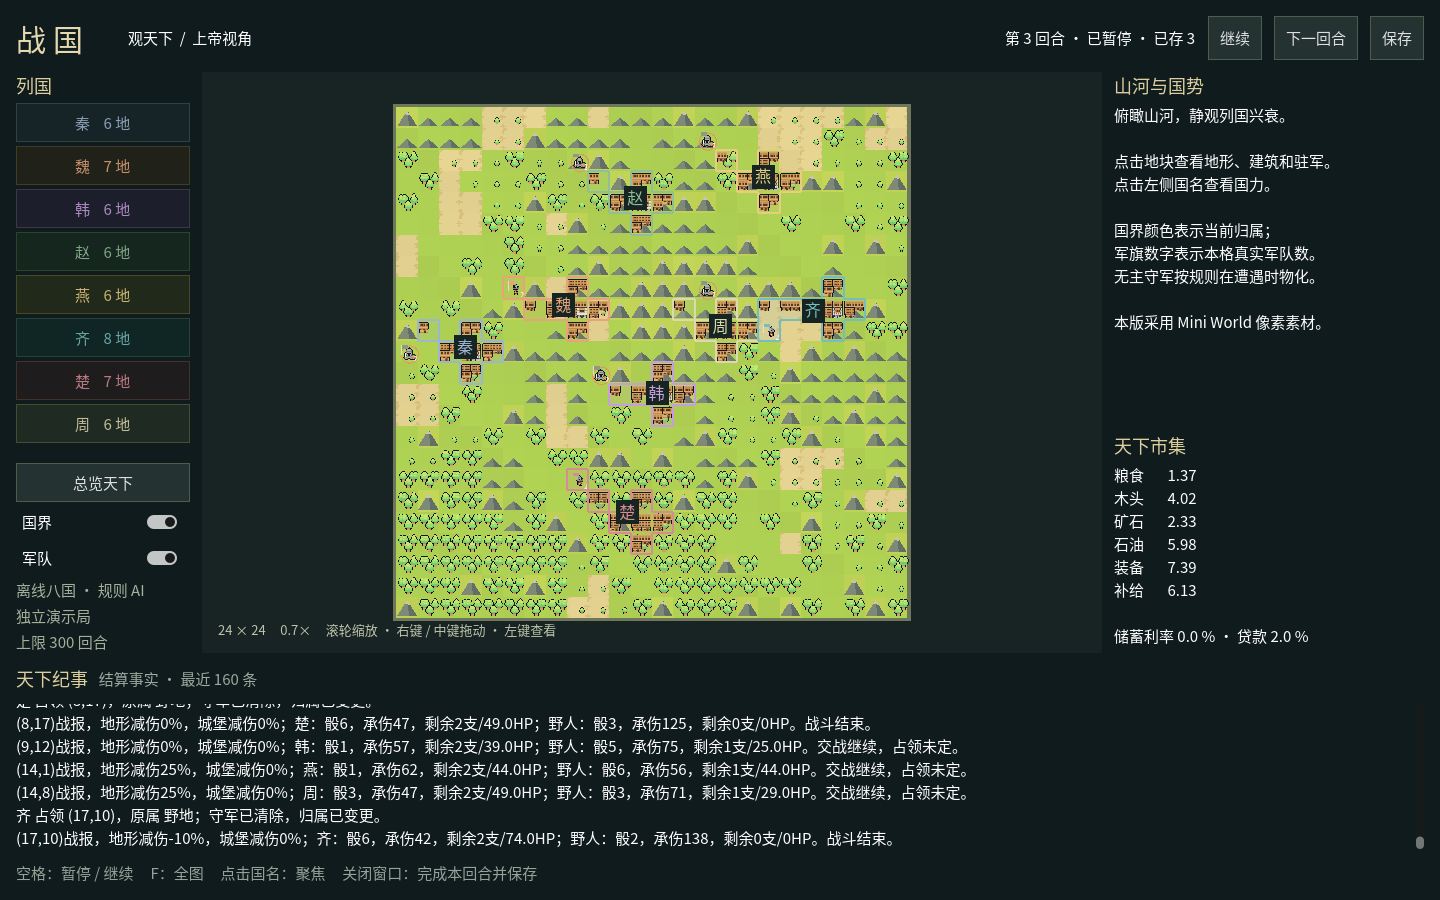
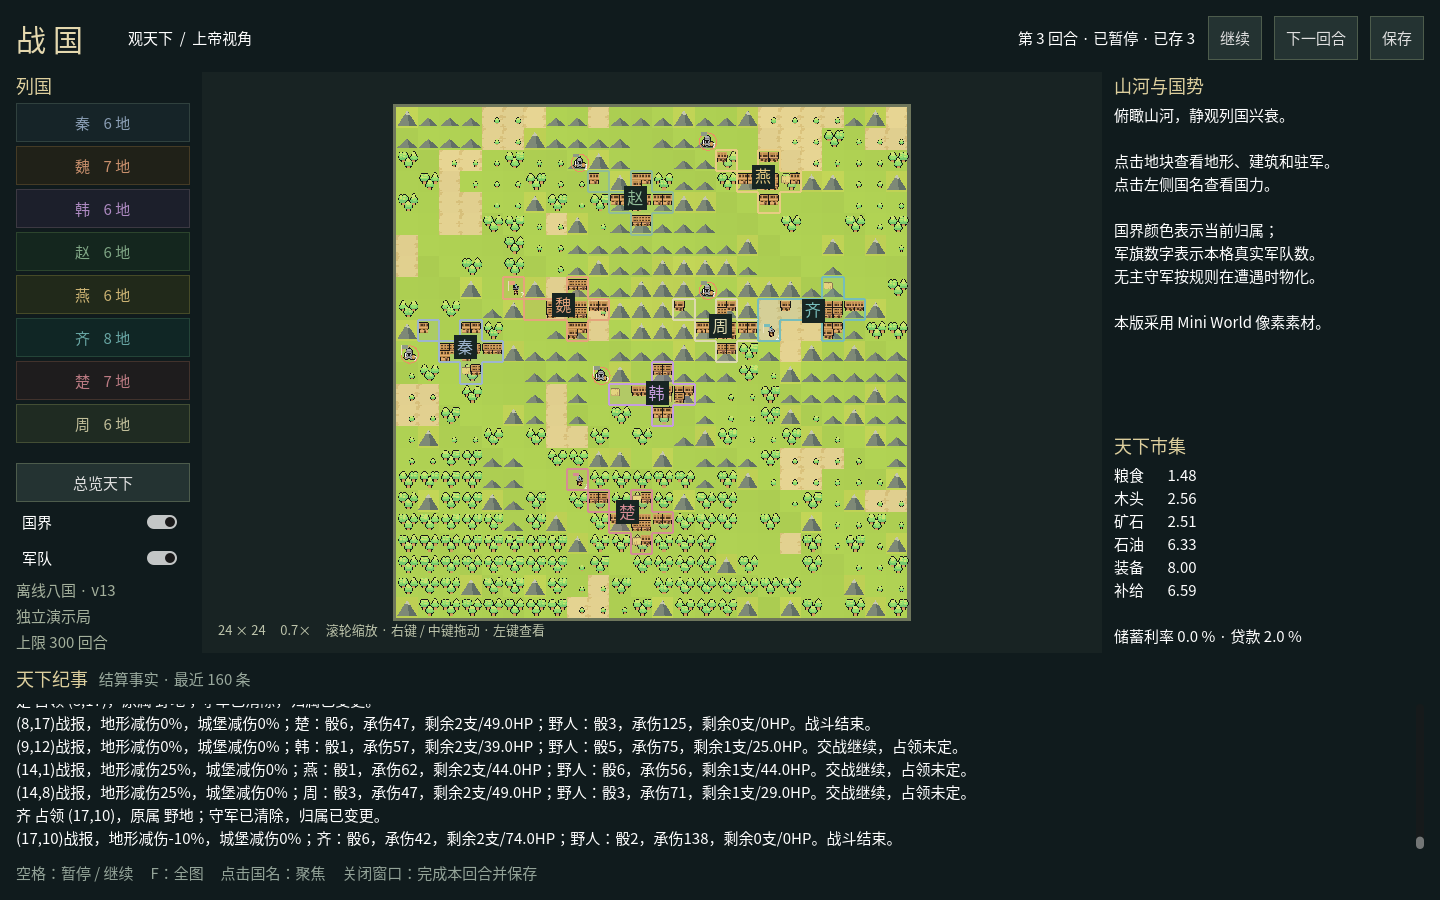
桌面演示固定使用v13规则AI并更新实机预览

diff --git a/mods/ui/desktop/Scripts/Desktop.cs b/mods/ui/desktop/Scripts/Desktop.cs
@@ -71,7 +71,7 @@ public partial class Desktop : Control
         var all = Button(left,"总览天下",()=>{_selectedNation="";_map.Fit();ShowTile(null);});all.TooltipText="F：回到全图";
         var borders = new CheckButton {Text="国界",ButtonPressed=true};left.AddChild(borders);borders.Toggled += v=>{_map.Borders=v;_map.QueueRedraw();};
         var units = new CheckButton {Text="军队",ButtonPressed=true};left.AddChild(units);units.Toggled += v=>{_map.Units=v;_map.QueueRedraw();};
-        left.AddChild(new Label {Text="离线八国 · 规则 AI\n独立演示局\n上限 300 回合",Modulate=new Color("a4b09c")});
+        left.AddChild(new Label {Text="离线八国 · v13\n独立演示局\n上限 300 回合",Modulate=new Color("a4b09c")});
         _map = new WorldMap {SizeFlagsHorizontal=SizeFlags.ExpandFill,SizeFlagsVertical=SizeFlags.ExpandFill};body.AddChild(_map);_map.SelectionChanged=ShowTile;
         var right = new VBoxContainer {CustomMinimumSize=new(310,0)};body.AddChild(right);
         right.AddChild(Heading("山河与国势"));

diff --git a/tests/test_desktop.py b/tests/test_desktop.py
@@ -12,13 +12,14 @@ from ui.desktop import Controller
 
 class TestDesktop(unittest.TestCase):
     def host(self):
-        cfg = build_config({'nations': [{'client': 'rule'}]}, 20261023)
+        cfg = build_config({'rule_ai': 'v13', 'nations': [{'client': 'rule', 'rule_ai': 'v13'}]}, 20261023)
         host = build(seed=20261023, config=cfg)
         for actor in host.actors():host.subsidize(actor, {}, cavalry=2)
         return host
 
     def test_detached_exact_projection(self):
         h = self.host(); snapshot = h.observer_snapshot(); before = h.to_save()
+        self.assertTrue(all(client.version == 'v13' for client in h.clients.values()))
         frame = h.ui.desktop_frame(snapshot)
         self.assertEqual(len(frame['tiles']), 576)
         self.assertEqual(len(frame['nations']), 8)

diff --git a/ui/desktop.py b/ui/desktop.py
@@ -115,7 +115,7 @@ def main(argv=None):
         if os.environ.get('ZHANGUO_UI_MODS'):cfg['ui_mods'] = os.environ['ZHANGUO_UI_MODS']
         with redirect_stdout(sys.stderr):host = GameHost.load(resume, cfg)
     else:
-        cfg = build_config({'nations': [{'client': 'rule'}]}, args.seed)
+        cfg = build_config({'rule_ai': 'v13', 'nations': [{'client': 'rule', 'rule_ai': 'v13'}]}, args.seed)
         if os.environ.get('ZHANGUO_UI_MODS'):cfg['ui_mods'] = os.environ['ZHANGUO_UI_MODS']
         with redirect_stdout(sys.stderr):host = build(seed=args.seed, config=cfg)
         # The ordinary scenario starts without troops. Give this isolated visual

diff --git a/mods/ui/desktop/README.md b/mods/ui/desktop/README.md
@@ -19,7 +19,7 @@ python3 desktop.py --godot /path/to/godot-mono --dotnet /path/to/dotnet
 也可用 Godot .NET 编辑器打开 `project.godot`，构建后运行；宿主默认使用
 `python3`（Windows 为 `python`），`ZHANGUO_PYTHON` 可指定解释器。
 
-默认创建**暂停的离线八国演示局**，不读取 `mp_config.json`、不调用 LLM。
+默认创建**暂停的离线八国 v13 规则 AI 演示局**，不读取 `mp_config.json`、不调用 LLM。
 为了展示真实单位，使用观察者补助接口给每国两支骑兵，其余规则沿用原剧本。
 上限为第 300 回合。每次启动保存到独立目录：
 
